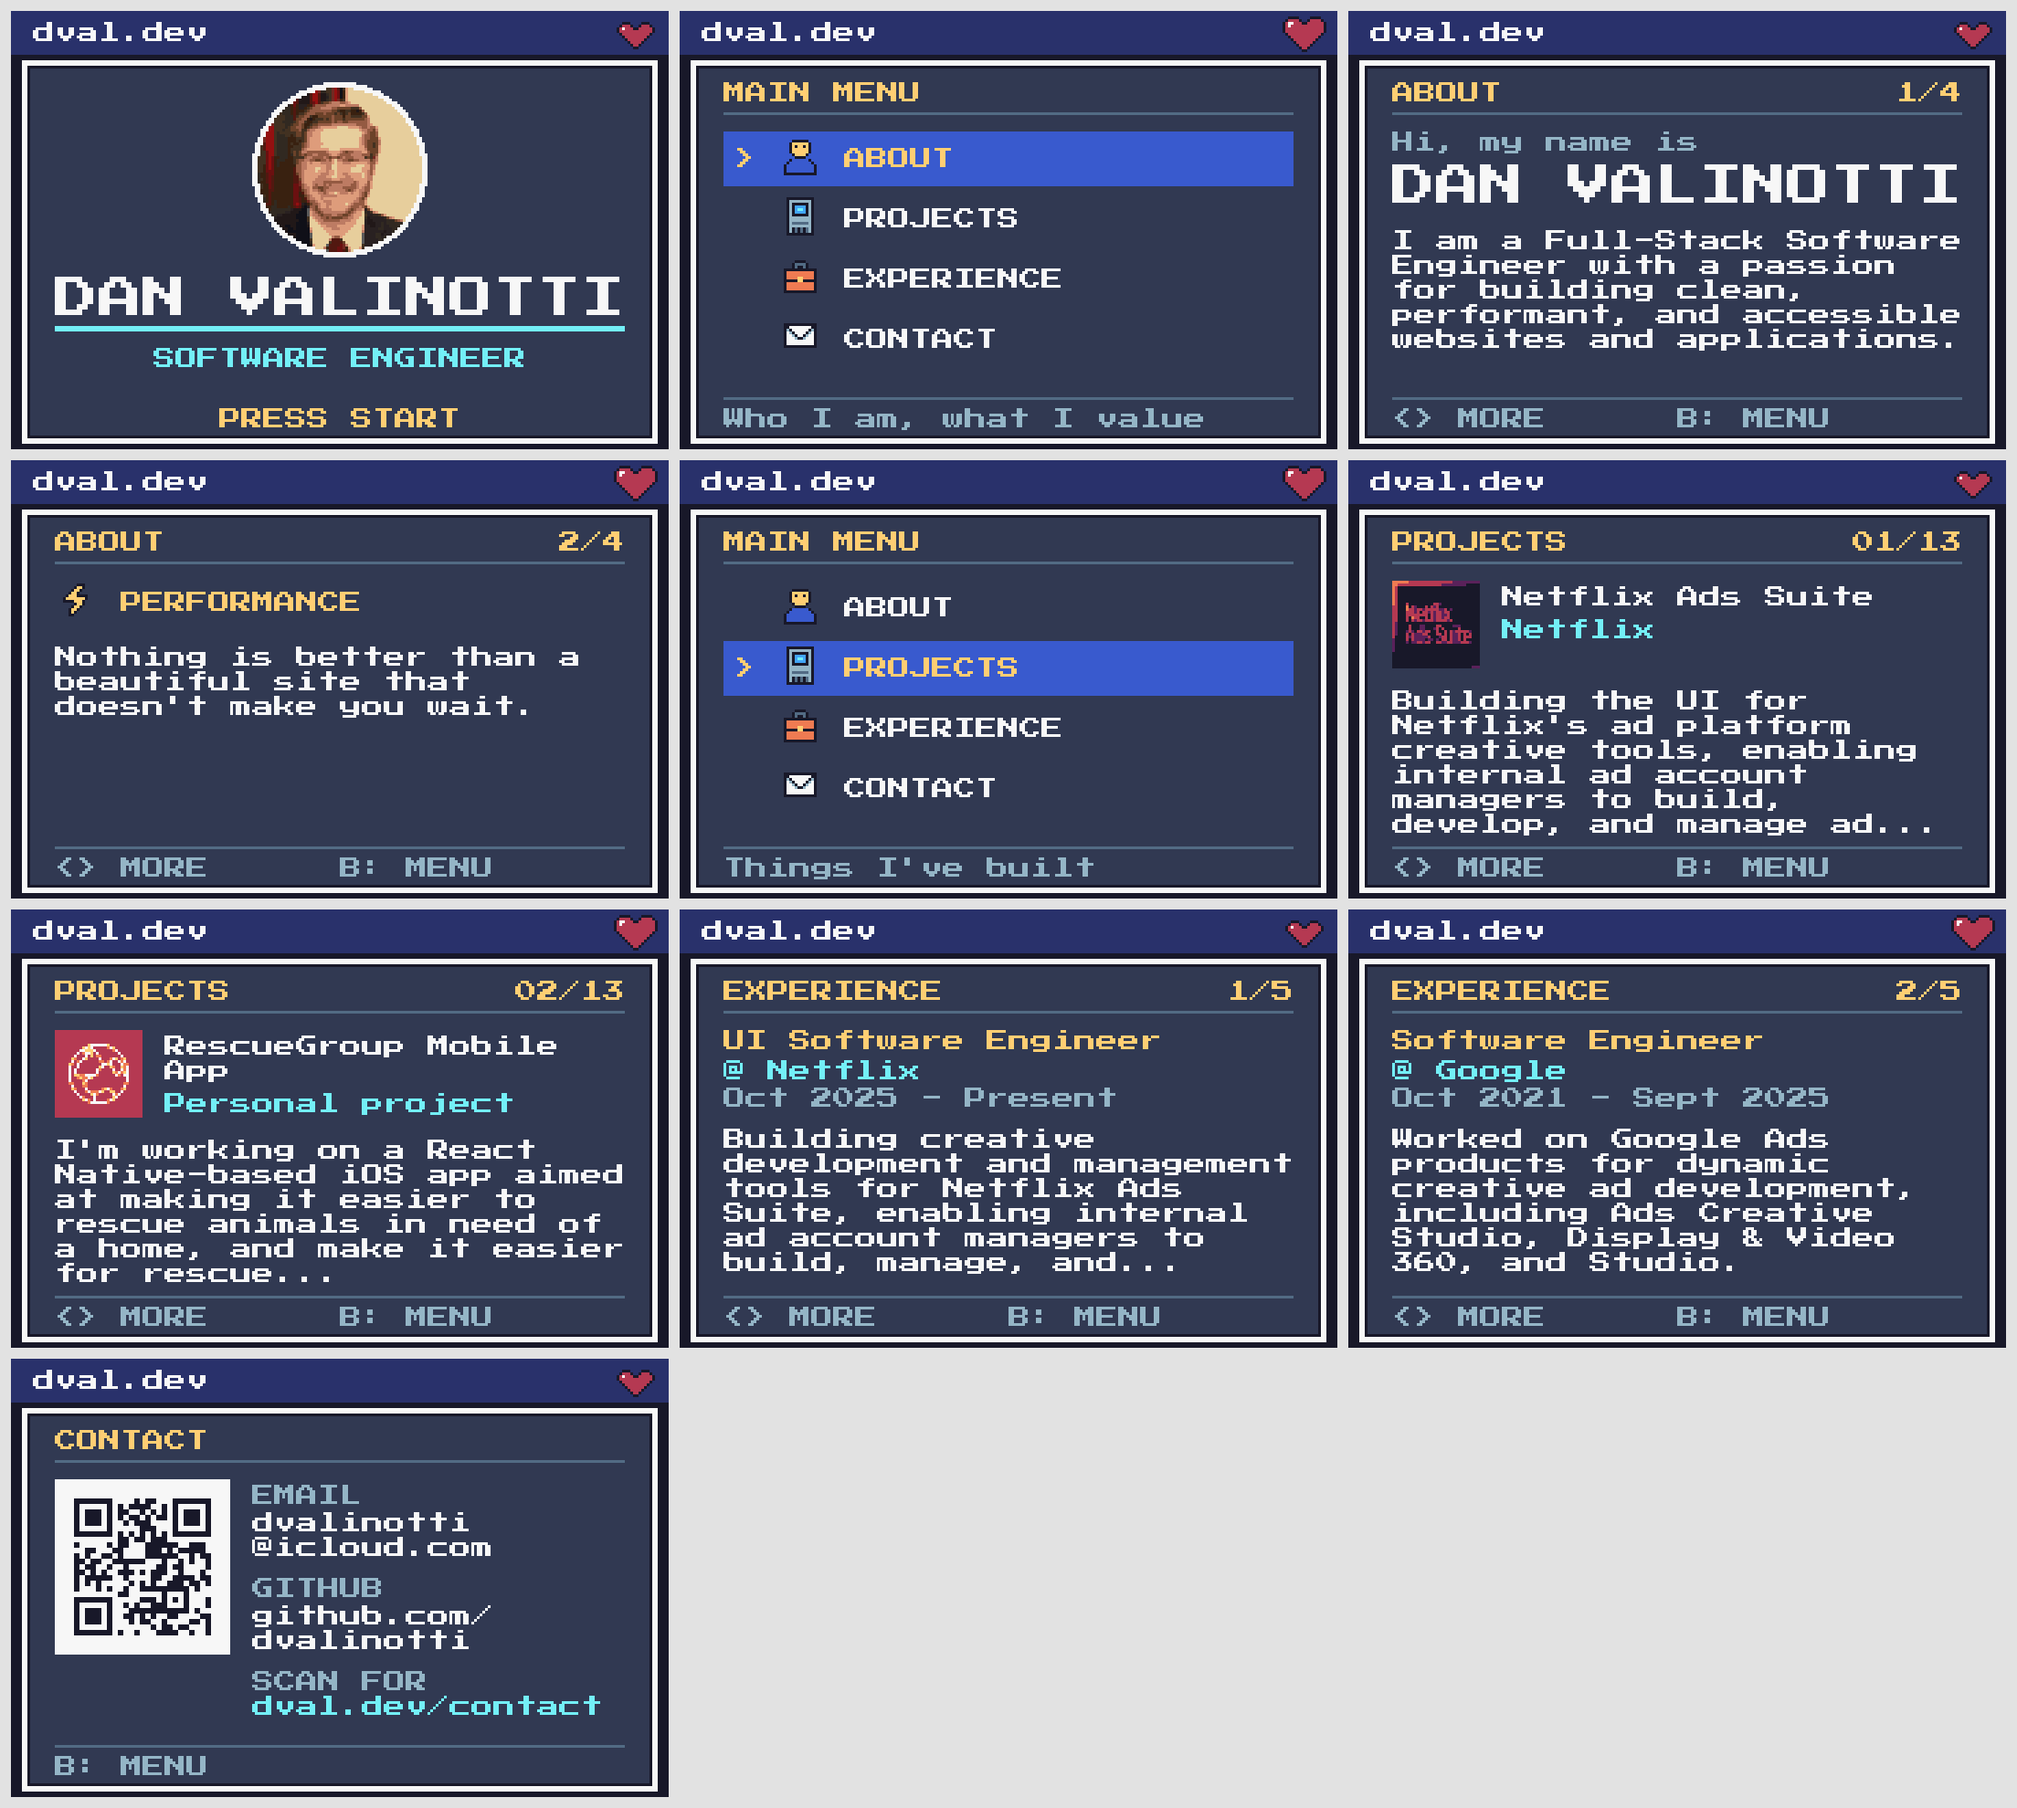
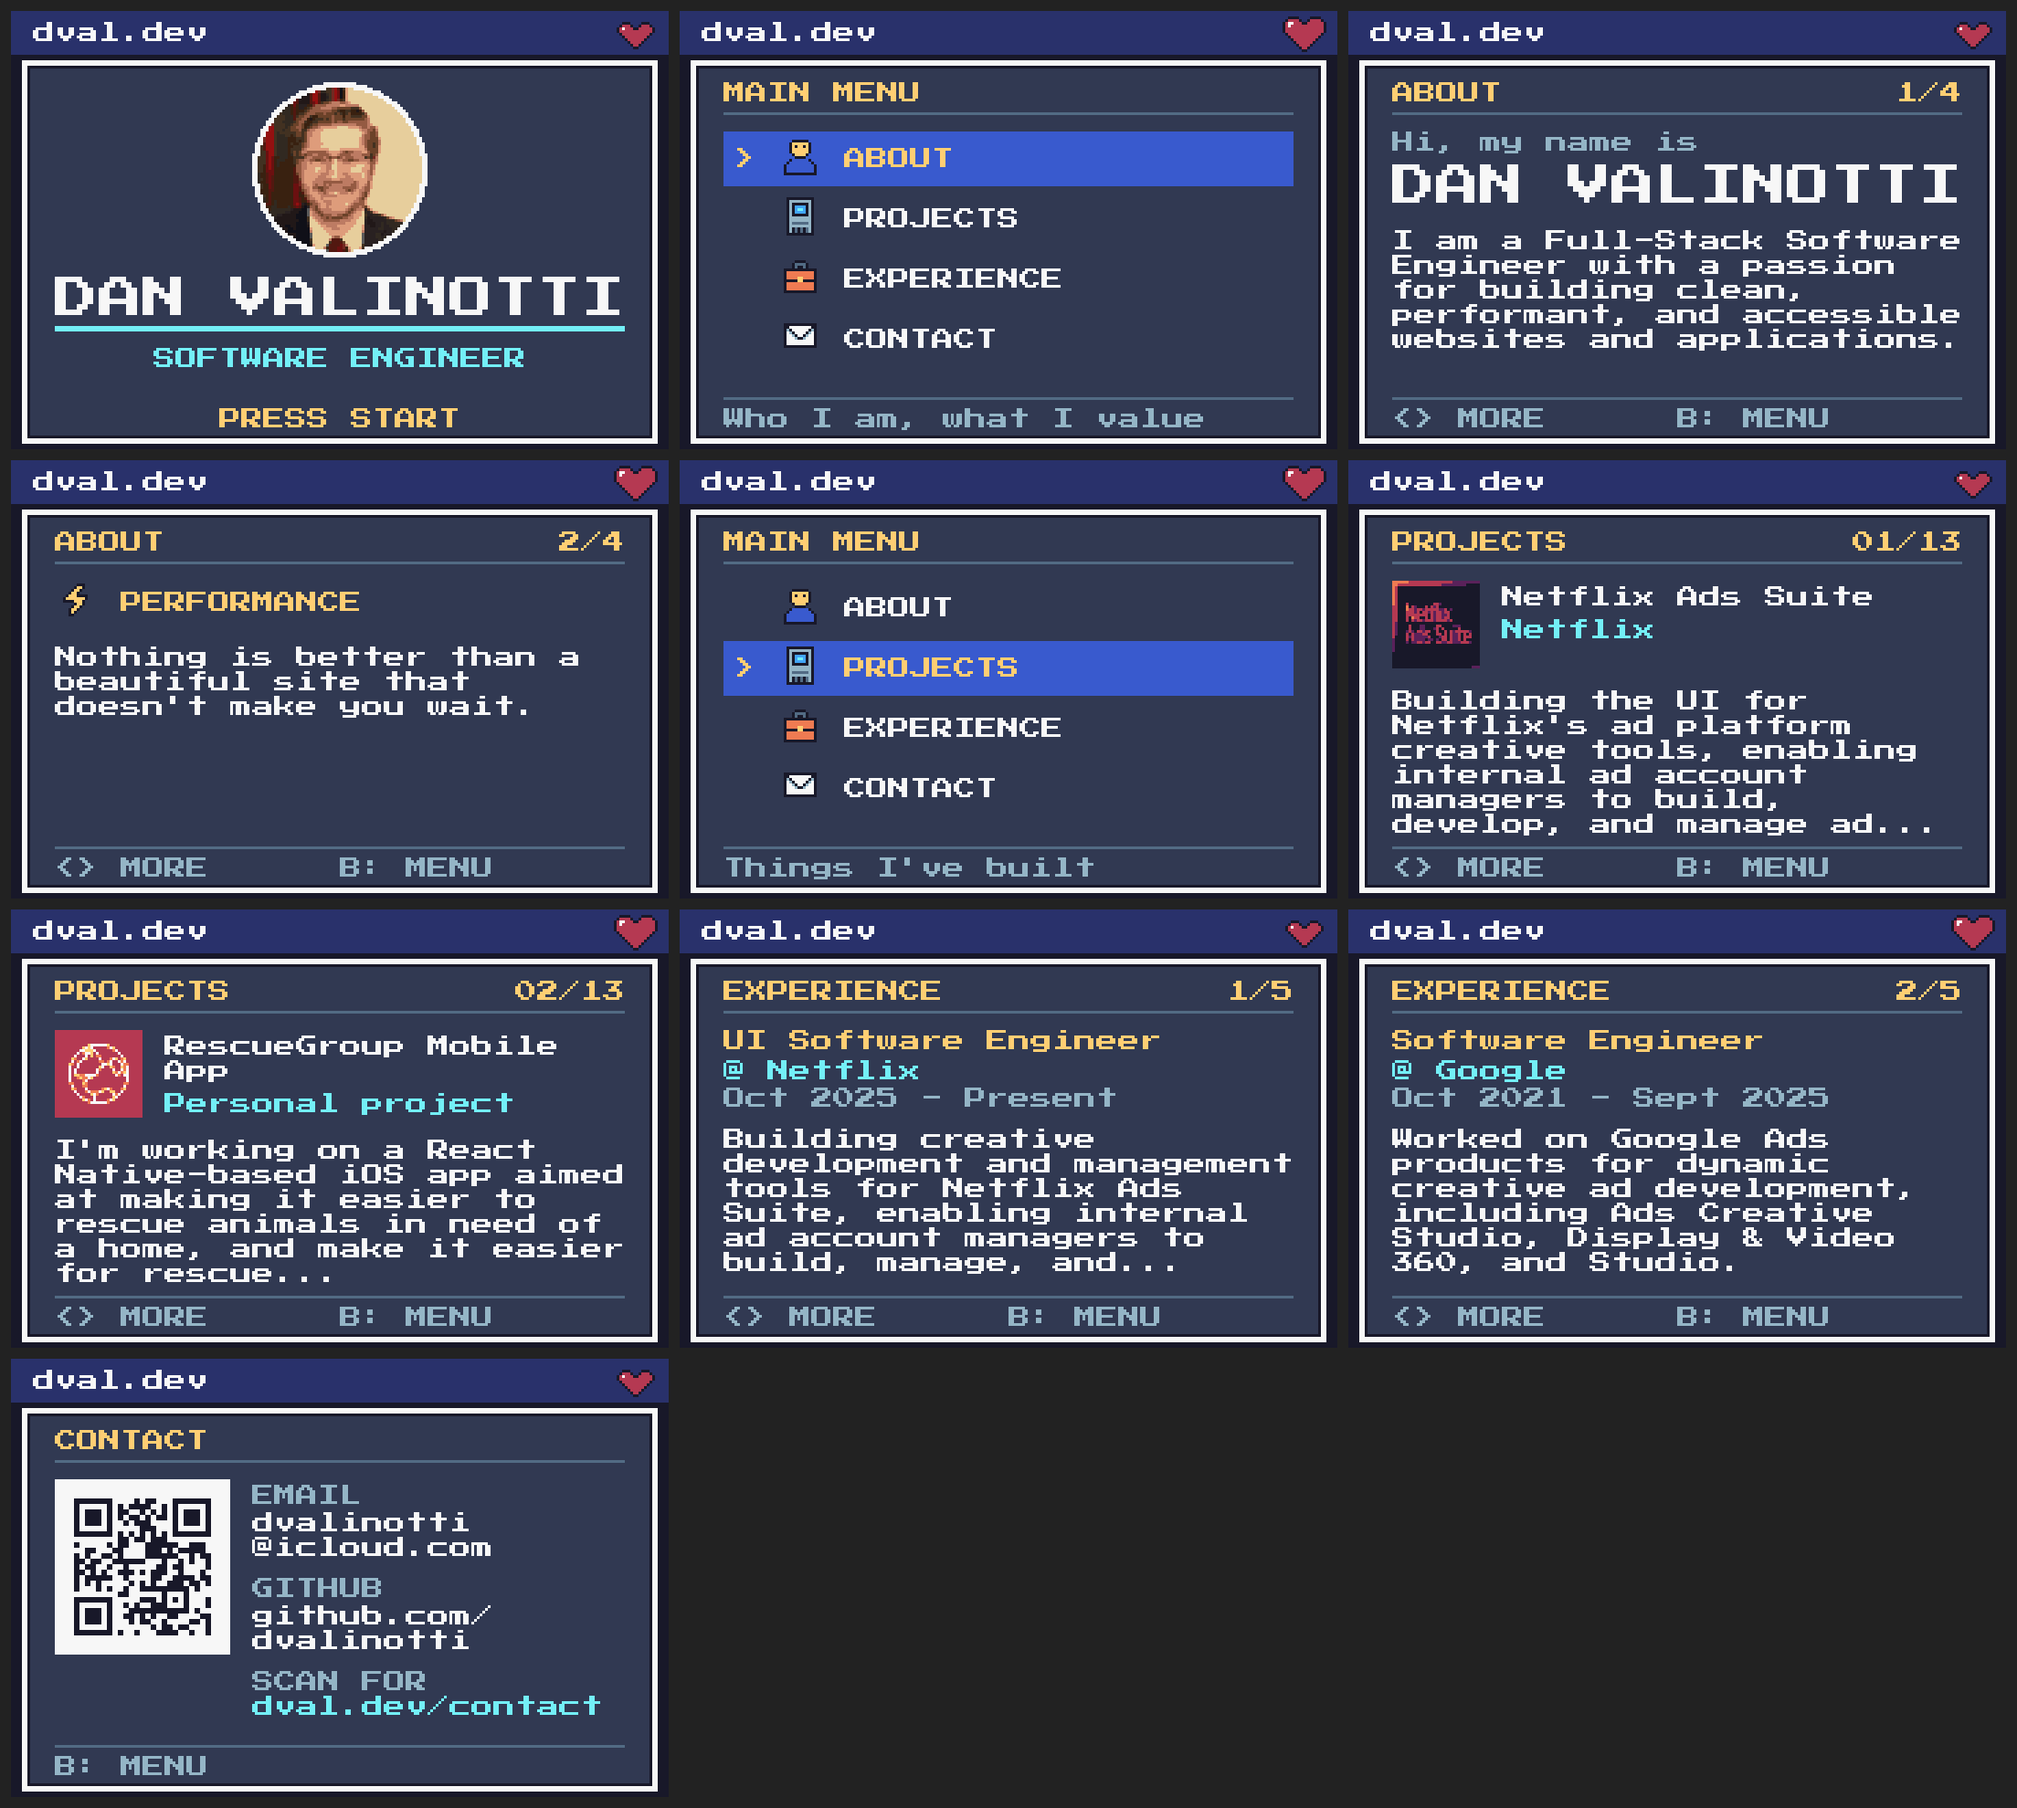
Keep layer diagnostics off the key queue; make the contact sheet opaque
Layer state moves from diagnostic word 28 to 48, so a fourth or fifth
sprite layer can no longer land on BRANCH_FAULTS or the IRQ's key queue.
tools/shots.c prints all 64 words with DIAG set so the layer words stay
visible.

The screenshot contact sheet filled its background with 0x22 in every
channel, alpha included; it is now opaque.

Claude-Session: https://claude.ai/code/session_01PLeewLryXmgRuAvVSGfh2t

Changed region(s): [[0.0, 0.0, 1.0, 1.0]]

diff --git a/scripts/screenshots.ts b/scripts/screenshots.ts
@@ -107,11 +107,13 @@ const shots = TOUR.map(([name], index) => [name, index] as const).filter(
 // The contact sheet: every named shot in a grid.
 const columns = all ? 4 : 3
 const gap = 12
+/** The opaque dark gray between shots, as RGBA. */
+const BACKGROUND = [0x22, 0x22, 0x22, 0xff]
 const sheet = new PNG({
   width: columns * (W * SCALE + gap) + gap,
   height: Math.ceil(shots.length / columns) * (H * SCALE + gap) + gap
 })
-sheet.data.fill(0x22)
+for (let at = 0; at < sheet.data.length; at += 4) sheet.data.set(BACKGROUND, at)
 shots.forEach(([name, index], i) => {
   const rgba = new Uint8Array(
     readFileSync(resolve(raw, `${String(index).padStart(2, '0')}.rgba`))

diff --git a/host/src/main.rs b/host/src/main.rs
@@ -80,13 +80,14 @@ const DIAG_BASE: usize = 0x02000000;
 ///
 /// The cartridge clears words 0 to 63 at boot. `diag` writes a word and
 /// `diagnostic` reads one back. Tools read them from emulator memory:
-/// `tools/shots.c` prints words 0 to 31 when `DIAG` is set and reports a
-/// fault from words 2, 13 and 16. `tools/shots.c` and `AGENTS.md` refer to
-/// these numbers, so an index must not change.
+/// `tools/shots.c` prints all 64 when `DIAG` is set and reports a fault
+/// from words 2, 13 and 16. `tools/shots.c` and `AGENTS.md` refer to these
+/// numbers, so an index must not change.
 ///
 /// `gba_irq` in `start.s` writes words 4, 22, 24, 25 and the key queue by
-/// address. Word 10 is no longer written: upstream published the Hero
-/// counter there. Words 48 to 63 are cleared at boot and not used otherwise.
+/// address. Words 10 and 28 to 30 are no longer written: upstream published
+/// the Hero counter at 10 and layer state from 28, which put a fourth
+/// layer's word on `BRANCH_FAULTS` and a fifth's in the key queue.
 mod diag_word {
     /// 0x50474241, the ASCII bytes "PGBA" read as a hex number. Written
     /// first at boot.
@@ -154,18 +155,18 @@ mod diag_word {
     pub const PRESENT_BYTES: usize = 26;
     /// Largest `PRESENT_BYTES` since boot.
     pub const PEAK_PRESENT_BYTES: usize = 27;
-    /// First per-layer state word: layer n of `art::LAYERS` writes word
-    /// 28 + n, for up to 16 layers. See `Scene::update` for what each kind
-    /// of layer writes. Words 28 to 30 fit three layers. A fourth layer's
-    /// word is 31, which `BRANCH_FAULTS` then overwrites, and later layers
-    /// write over the key queue at 32.
-    pub const LAYER_STATE: usize = 28;
     /// How many times a branches layer found more than one mounted child
     /// matching its frames (`Scene::faults`).
     pub const BRANCH_FAULTS: usize = 31;
     /// First of the 16 key queue slots `gba_irq` fills: slot n is word
     /// 32 + n, and a state goes into slot (write count mod 16).
     pub const KEY_QUEUE: usize = 32;
+    /// First per-layer state word: layer n of `art::LAYERS` writes word
+    /// 48 + n. See `Scene::update` for what each kind of layer writes.
+    pub const LAYER_STATE: usize = 48;
+    /// Layers with a state word, up to the last cleared word. Layers past
+    /// these are not published.
+    pub const LAYER_STATE_WORDS: usize = COUNT - LAYER_STATE;
     /// Number of words the cartridge clears at boot.
     pub const COUNT: usize = 64;
 }
@@ -466,9 +467,10 @@ pub unsafe extern "C" fn gba_main() -> ! {
         app.frame(&Input::buttons(buttons));
         let model_end = cycles();
         scene.update(app.ui());
-        // Words 28.. publish each layer's state in plan order (branch index,
+        // Words 48.. publish each layer's state in plan order (branch index,
         // visibility, size value, color bits, glyph count).
-        for (index, value) in scene.state.iter().enumerate().take(16) {
+        let published = scene.state.iter().take(diag_word::LAYER_STATE_WORDS);
+        for (index, value) in published.enumerate() {
             diag(diag_word::LAYER_STATE + index, *value);
         }
         diag(diag_word::BRANCH_FAULTS, scene.faults);

diff --git a/tools/shots.c b/tools/shots.c
@@ -61,7 +61,8 @@ int main(int argc, char** argv) {
   }
   // The host publishes diagnostic words at the start of EWRAM (host/src/main.rs):
   // word 2 is 0xdead after a fault, word 13 the fault code, word 16 a panic line.
-  if (getenv("DIAG")) for (int i = 0; i < 32; i++) fprintf(stderr, "diag %2d = %u\n", i, core->rawRead32(core, 0x02000000 + i * 4, -1));
+  // There are 64; words 48 on hold each sprite layer's state.
+  if (getenv("DIAG")) for (int i = 0; i < 64; i++) fprintf(stderr, "diag %2d = %u\n", i, core->rawRead32(core, 0x02000000 + i * 4, -1));
   if (core->rawRead32(core, 0x02000008, -1) == 0xdead) {
     fprintf(stderr, "ROM faulted: code %u, panic line %u\n", core->rawRead32(core, 0x02000034, -1), core->rawRead32(core, 0x02000040, -1));
     return 3;

diff --git a/host/README.md b/host/README.md
@@ -8,13 +8,13 @@ presents a static Mode 0 background plus hardware sprites.
 
 Changes from upstream:
 
-| File                                   | Change                                                                                                                                                                                   |
-| -------------------------------------- | ---------------------------------------------------------------------------------------------------------------------------------------------------------------------------------------- |
-| `build.ts`                             | Builds `app/` from this repo; bakes the Press Start 2P pixel font (`scripts/fonts.ts`), the pixel art (`scripts/art.ts`) and every image an app source names; writes `dist/dval-gba.gba` |
-| `src/main.rs`                          | Maps every GBA key (A, B, Select, Start, D-pad, L, R) to PocketJS buttons; drops the Hero-specific counter diagnostic                                                                    |
-| `src/start.s`, `gba.ld`, `src/main.rs` | The user stack is 64 KiB at the top of EWRAM instead of IWRAM. Constructing the app with 28 pre-rendered pages takes a 31 KiB stack frame, which overflowed IWRAM's 32 KiB               |
-| `bake/src/main.rs`                     | Destroys every top-level node of a `<Show>` branch after capturing it, not only the first, so a branch with several top-level elements does not bleed into the next capture              |
-| `Cargo.toml`, `bake/Cargo.toml`        | Engine paths point at `vendor/pocketjs`                                                                                                                                                  |
+| File                                   | Change                                                                                                                                                                                                           |
+| -------------------------------------- | ---------------------------------------------------------------------------------------------------------------------------------------------------------------------------------------------------------------- |
+| `build.ts`                             | Builds `app/` from this repo; bakes the Press Start 2P pixel font (`scripts/fonts.ts`), the pixel art (`scripts/art.ts`) and every image an app source names; writes `dist/dval-gba.gba`                         |
+| `src/main.rs`                          | Maps every GBA key (A, B, Select, Start, D-pad, L, R) to PocketJS buttons; drops the Hero-specific counter diagnostic; publishes layer state from diagnostic word 48 instead of 28, clear of the IRQ's key queue |
+| `src/start.s`, `gba.ld`, `src/main.rs` | The user stack is 64 KiB at the top of EWRAM instead of IWRAM. Constructing the app with 28 pre-rendered pages takes a 31 KiB stack frame, which overflowed IWRAM's 32 KiB                                       |
+| `bake/src/main.rs`                     | Destroys every top-level node of a `<Show>` branch after capturing it, not only the first, so a branch with several top-level elements does not bleed into the next capture                                      |
+| `Cargo.toml`, `bake/Cargo.toml`        | Engine paths point at `vendor/pocketjs`                                                                                                                                                                          |
 
 Beyond those behavior changes, every file here carries added comments, named
 constants for hardware registers and addresses (including the diagnostic words

diff --git a/AGENTS.md b/AGENTS.md
@@ -62,6 +62,6 @@ Prettier formats the TypeScript, JSON and Markdown, with the same settings as dv
 2. `bun run build`. Read the budget line it prints (`OAM …/128, OBJ VRAM …/32768 B`).
 3. `bun run preview`, then look at the screenshots. The runner exits with an error if the ROM faults. For a new or changed page, run `bun scripts/screenshots.ts --all` and check every page, not just the tour.
 
-With `DIAG=1` set, `tools/shots.c` also prints the 32 diagnostic words the host writes at the start of EWRAM (0x02000000). `host/src/main.rs` writes them with `diag(index, value)`. Word 2 is `0xdead` after a fault and word 13 holds the fault code. Word 5 is the last frame's cycle count and word 6 the peak, word 7 counts missed frames, word 9 is peak heap and word 20 is stack use.
+With `DIAG=1` set, `tools/shots.c` also prints the 64 diagnostic words the host writes at the start of EWRAM (0x02000000). `host/src/main.rs` writes them with `diag(index, value)`. Word 2 is `0xdead` after a fault and word 13 holds the fault code. Word 5 is the last frame's cycle count and word 6 the peak, word 7 counts missed frames, word 9 is peak heap, word 20 is stack use, and words 48 on hold each sprite layer's state (word 49 is the page shown).
 
 Commit the regenerated `app/` files and any screenshots that changed alongside the source change that produced them. The ROM itself (`dist/`) and `.build/` are not committed.
